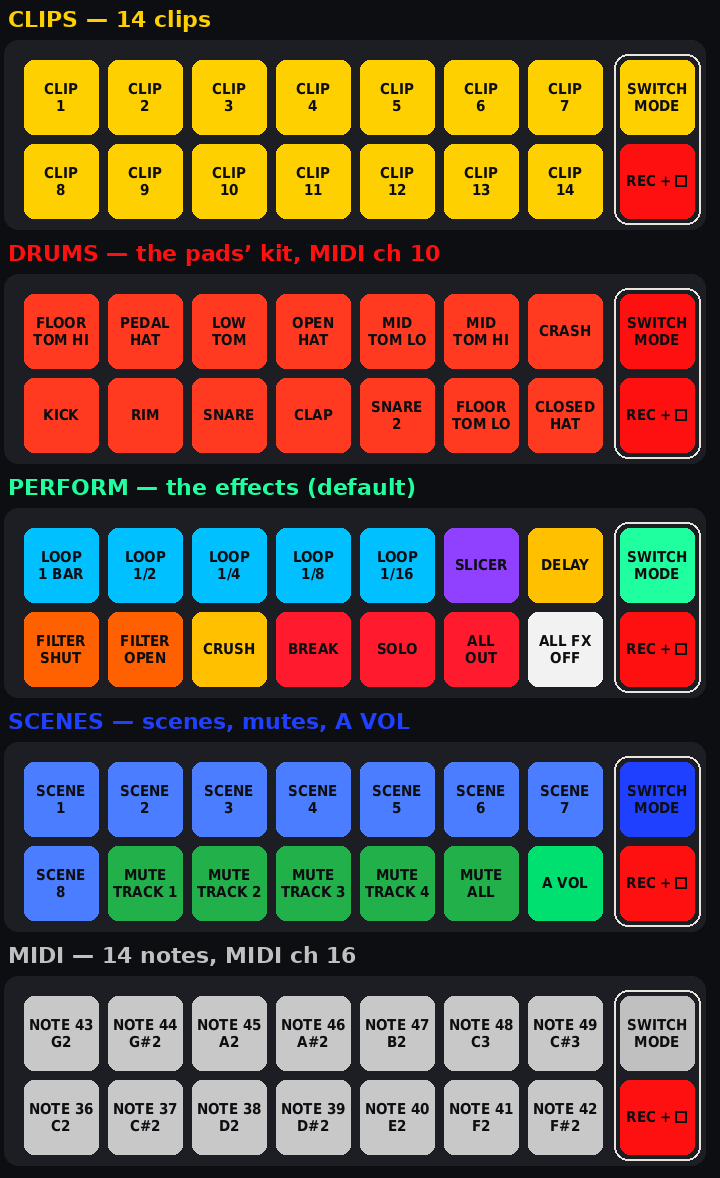
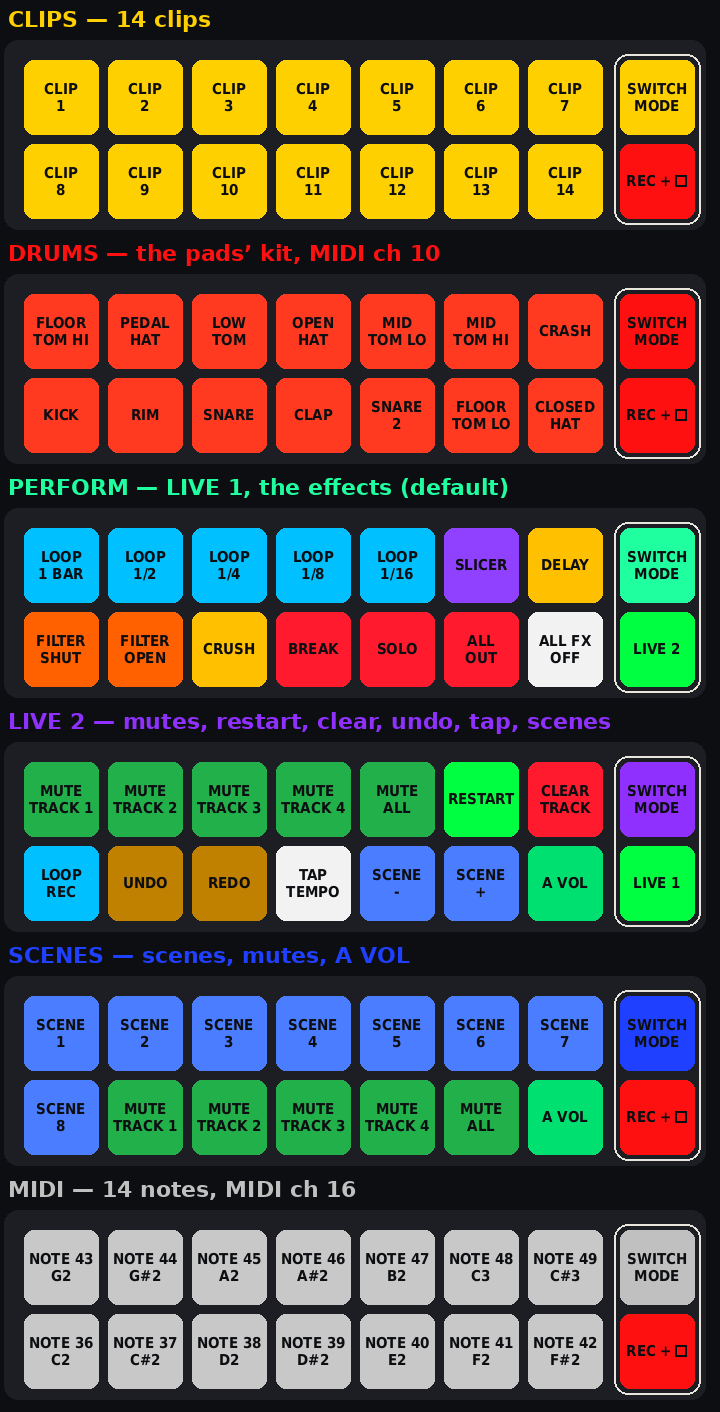
Pads: LIVE 2 mode, REC switches LIVE 1 / LIVE 2 (CORE a4ee07b)
Claude-Session: https://claude.ai/code/session_01N9f4HJn3ZZ4mEGDi7YNfQW

diff --git a/targets/smk37/smk37_app.c b/targets/smk37/smk37_app.c
@@ -379,7 +379,9 @@ static const int8_t ENCODER_MAP[SMK_ENCODERS] = { EN_SELECT, EN_PRESET, EN_K1, E
 
 /* The pads: the two on the right are set-up pads, MODE (top right) and REC (bottom right); the 14 others play the
  * mode MODE (or PAD/STEP) goes round: CLIPS, DRUMS, PERFORM, SCENES, MIDI. */
-enum { PADS_CLIPS, PADS_DRUMS, PADS_PERFORM, PADS_SCENES, PADS_MIDI, PAD_MODES };
+enum { PADS_CLIPS, PADS_DRUMS, PADS_PERFORM, PADS_LIVE2, PADS_SCENES, PADS_MIDI, PAD_MODES };   /* PERFORM is
+                                                 * LIVE 1: LIVE 1 and LIVE 2 are the pads played all the time */
+#define LIVE_MODE(m) ((m) == PADS_PERFORM || (m) == PADS_LIVE2)   /* REC is their switch, green */
 #define PAD_MODE 7u                             /* the top right pad */
 #define PAD_REC 15u                             /* the bottom right pad */
 #define PLAY_PADS 14u
@@ -645,7 +647,7 @@ static void setup_pad(uint32_t pad, int down)
             ui.redraw = 1;
             return;
         }
-        static const char *const NAME[PAD_MODES] = { "CLIPS", "DRUMS", "PERFORM", "SCENES", "MIDI CH 16" };
+        static const char *const NAME[PAD_MODES] = { "CLIPS", "DRUMS", "LIVE 1", "LIVE 2", "SCENES", "MIDI CH 16" };
         smk.pad_mode = (uint8_t)((smk.pad_mode + 1u) % PAD_MODES);
         app_say("PADS", NAME[smk.pad_mode]);
         return;
@@ -672,6 +674,13 @@ static void setup_pad(uint32_t pad, int down)
                 return;
             }
         }
+        if (LIVE_MODE(smk.pad_mode)) {          /* LIVE 1 / LIVE 2: REC is their switch (nothing to record there) */
+            static const char *const LIVE_NAME[2] = { "LIVE 1", "LIVE 2" };
+            smk.pad_mode = smk.pad_mode == PADS_PERFORM ? PADS_LIVE2 : PADS_PERFORM;
+            app_say("PADS", LIVE_NAME[smk.pad_mode == PADS_LIVE2]);
+            smk.rec_target = -2;
+            return;
+        }
         smk.rec_target = -1;
         if (smk.pad_mode == PADS_DRUMS) {       /* the kits on the first five pads, the one playing bright */
             app_say("PAD KIT", ols_sound_name(OLS_SOUND_FIRST_DRUM + set.pad_kit));
@@ -689,6 +698,102 @@ static void setup_pad(uint32_t pad, int down)
         return;
     }
     rec_taken(i);
+}
+
+/* LIVE 2: what is needed at once while playing, one pad each. Top: MUTE 1-4 (the tracks' own mutes, as SELECT + key),
+ * MUTE ALL, RESTART, CLEAR TRACK. Bottom: LOOP REC (as EDIT tapped), UNDO, REDO, TAP tempo, the previous / next
+ * stored scene, A VOL. REC (bottom right) goes back to LIVE 1. */
+enum { L2_M1, L2_M2, L2_M3, L2_M4, L2_MUTE_ALL, L2_RESTART, L2_CLEAR, L2_CAPTURE, L2_UNDO, L2_REDO, L2_TAP,
+       L2_SCENE_PREV, L2_SCENE_NEXT, L2_AVOL };
+
+static int live2_scene(int dir)                 /* the next stored scene from the last one, -1 none */
+{
+    int from = mirror.scene_last >= 0 ? mirror.scene_last : (dir > 0 ? -1 : 0);
+    for (int n = 1; n <= 8; n++) {
+        int s = ((from + dir * n) % 8 + 8) % 8;
+        if (live.scene[s].valid)
+            return s;
+    }
+    return -1;
+}
+
+static void live2_pad(int i)
+{
+    switch (i) {
+    case L2_M1: case L2_M2: case L2_M3: case L2_M4:
+        track_key(i);
+        break;
+    case L2_MUTE_ALL:
+        mute_all_key();
+        break;
+    case L2_RESTART:
+        home_key(1);
+        break;
+    case L2_CLEAR:
+        track_key(5);                           /* the selected track (on A: every track); ENV undoes it */
+        break;
+    case L2_CAPTURE:                            /* as EDIT tapped: LOOP REC armed, again: taken */
+        if (ui.cap_armed) {
+            take_end();
+        } else {
+            ui.edit_used = 0;
+            edit_released();
+        }
+        break;
+    case L2_UNDO:
+        button_pressed(B_ENV, ui.buttons);
+        break;
+    case L2_REDO:
+        button_pressed(B_LFO, ui.buttons);
+        break;
+    case L2_TAP:
+        send_live(LIVE_TAP, 0, 0, 0.0f, 0);
+        app_say("TAP", "TEMPO");
+        break;
+    case L2_SCENE_PREV: case L2_SCENE_NEXT: {
+        int s = live2_scene(i == L2_SCENE_NEXT ? 1 : -1);
+        if (s < 0)
+            app_say("SCENES", "NONE STORED");
+        else
+            scene_key(s);
+        break;
+    }
+    default:
+        avol_key();
+        break;
+    }
+}
+
+static uint32_t live2_colour(int i, int held)
+{
+    if (i <= L2_M4)                             /* the mutes: as in SCENES */
+        return live.track[i].mute ? 0x400000 : (i == mirror.track && !ui.on_a ? 0x8060FF : 0x08A008);
+    switch (i) {
+    case L2_MUTE_ALL: {
+        int all_out = 1;
+        for (uint32_t k = 0; k < TRACKS; k++)
+            all_out &= live.track[k].mute != 0;
+        return all_out ? ((fm1_millis() / 125u) & 1u ? 0xFF0010 : 0x100000) : 0x200040;
+    }
+    case L2_RESTART:
+        return held ? 0x00FF40 : 0x00300C;
+    case L2_CLEAR:
+        return held ? 0xFF0000 : 0x300000;
+    case L2_CAPTURE:                            /* LOOP REC armed / taking: blinks fast */
+        return ui.cap_armed ? ((fm1_millis() / 125u) & 1u ? 0x00C0FF : 0x001018) : (held ? 0x00C0FF : 0x00141C);
+    case L2_UNDO:
+        return ols_live_can_undo_track(&live, mirror.track) ? 0xC08000 : 0x100800;
+    case L2_REDO:
+        return ols_live_can_redo_track(&live, mirror.track) ? 0xC08000 : 0x100800;
+    case L2_TAP: {                              /* the beat */
+        uint32_t t = live.clock.running ? live.clock.tick : live.clock.free_tick;
+        return held ? 0xFFFFFF : (t % OLS_PPQN < OLS_PPQN / 8u ? 0x808080 : 0x101010);
+    }
+    case L2_SCENE_PREV: case L2_SCENE_NEXT:
+        return live2_scene(1) < 0 ? 0x020210 : (held ? 0x60A0FF : 0x0828A0);
+    default:
+        return avol.on ? 0x00FF60 : 0x002810;   /* A VOL: lit green while it runs */
+    }
 }
 
 #define PADS_QUIET_MS 500u
@@ -780,6 +885,10 @@ static void pad_event(uint32_t pad, int velocity)
             else
                 v_keys_tracks |= 1u << k;
             slot_down(k, (uint32_t)velocity);
+            return;
+        }
+        if (smk.pad_mode == PADS_LIVE2) {       /* quick gestures, at once */
+            live2_pad(i);
             return;
         }
         if (smk.pad_mode == PADS_PERFORM) {     /* 14 of the perform effects (the pads never follow a held layer) */
@@ -1146,9 +1255,9 @@ static uint32_t clip_colour(const clip_t *c)
 }
 
 /* the pads' modes' colours (the MODE pad shows the one it is in) */
-static const uint32_t MODE_COLOUR[PAD_MODES] = { 0xFFD000, 0xFF1010, 0x20FFA0, 0x2040FF, 0xC0C0C0 };   /* CLIPS
-                                                 * yellow, DRUMS red, PERFORM mint (the live colour), SCENES blue,
-                                                 * MIDI white */
+static const uint32_t MODE_COLOUR[PAD_MODES] = { 0xFFD000, 0xFF1010, 0x20FFA0, 0x9030FF, 0x2040FF, 0xC0C0C0 };
+                                                /* CLIPS yellow, DRUMS red, LIVE 1 (PERFORM) mint (the live colour),
+                                                 * LIVE 2 violet, SCENES blue, MIDI white */
 
 #define MODE_MAP_MS 400u                        /* MODE held this long, alone: the pads' map shows */
 
@@ -1170,7 +1279,13 @@ static const struct { char name[4]; uint8_t type; } PAD_MAP[PAD_MODES][SMK_PADS]
         { "L1", 0 }, { "L2", 0 }, { "L4", 0 }, { "L8", 0 },
         { "L16", 0 }, { "SLC", 12 }, { "DLY", 13 }, { "SW", 10 },
         { "FL-", 1 }, { "FL+", 1 }, { "CRU", 13 }, { "BRK", 2 },
-        { "SOL", 2 }, { "OUT", 2 }, { "OFF", 3 }, { "REC", 11 },
+        { "SOL", 2 }, { "OUT", 2 }, { "OFF", 3 }, { "LV2", 14 },
+    },
+    {
+        { "M1", 8 }, { "M2", 8 }, { "M3", 8 }, { "M4", 8 },
+        { "MA", 8 }, { "RST", 14 }, { "CLR", 2 }, { "SW", 10 },
+        { "CAP", 0 }, { "UND", 15 }, { "RDO", 15 }, { "TAP", 3 },
+        { "SC-", 7 }, { "SC+", 7 }, { "AV", 9 }, { "LV1", 14 },
     },
     {
         { "SC1", 7 }, { "SC2", 7 }, { "SC3", 7 }, { "SC4", 7 },
@@ -1193,12 +1308,13 @@ static int smk_pad_map(void)
 {
     if (!((smk.pad_down >> PAD_MODE) & 1u) || smk.mode_used || fm1_millis() - smk.mode_down_at < MODE_MAP_MS)
         return 0;
-    static const uint32_t TYPE_RGB[14] = { 0x00C0FF, 0xFF6000, 0xFF1A2E, 0xF2F2F2, 0xFFD000, 0xFF3A20, 0xC8C8C8,
-                                           0x4A7DFF, 0x22B04A, 0x00E070, 0, 0xFF1010, 0x9040FF, 0xFFC000 };
+    static const uint32_t TYPE_RGB[16] = { 0x00C0FF, 0xFF6000, 0xFF1A2E, 0xF2F2F2, 0xFFD000, 0xFF3A20, 0xC8C8C8,
+                                           0x4A7DFF, 0x22B04A, 0x00E070, 0, 0xFF1010, 0x9040FF, 0xFFC000, 0x00FF40,
+                                           0xC08000 };
                                                 /* loop, filter, mute, off, clip, drum, MIDI, scene, track, A VOL,
-                                                 * (MODE), REC, slicer, sound effect */
+                                                 * (MODE), REC, slicer, sound effect, LIVE switch / restart, undo */
     if (!smk.mode_map) {
-        static const char *const NAME[PAD_MODES] = { "CLIPS", "DRUMS", "PERFORM", "SCENES", "MIDI CH 16" };
+        static const char *const NAME[PAD_MODES] = { "CLIPS", "DRUMS", "LIVE 1", "LIVE 2", "SCENES", "MIDI CH 16" };
         app_say("PADS", NAME[smk.pad_mode]);
         ui.msg_until = plat_ms() + 60000u;      /* (while MODE is held) */
     }
@@ -1210,7 +1326,7 @@ static int smk_pad_map(void)
         int32_t col = (int32_t)(p % 8u), row = (int32_t)(p / 8u);
         int32_t x = x0 + col * (pw + gap) + (col == 7 ? side : 0), y = y0 + row * (ph + gap);
         uint8_t t = PAD_MAP[smk.pad_mode][p].type;
-        uint32_t c = t == 10u ? MODE_COLOUR[smk.pad_mode] : (t < 14u ? TYPE_RGB[t] : 0x24252Cu);
+        uint32_t c = t == 10u ? MODE_COLOUR[smk.pad_mode] : (t < 16u ? TYPE_RGB[t] : 0x24252Cu);
         cv_rect(x, y, pw, ph, RGB((c >> 16) & 255u, (c >> 8) & 255u, c & 255u));
         const char *n = PAD_MAP[smk.pad_mode][p].name;
         cv_text(x + (pw - text_w(&FONT_XS, n)) / 2, y + (ph - (int32_t)FONT_XS.h) / 2, &FONT_XS, n, C_BLACK);
@@ -1269,6 +1385,8 @@ static uint32_t pad_colour(uint32_t pad)
         return dim(MODE_COLOUR[smk.pad_mode], held ? 256u : 110u);
     }
     if (pad == PAD_REC) {                         /* REC: a take armed or running blinks it, 4 times a second */
+        if (LIVE_MODE(smk.pad_mode) && crec.slot < 0)
+            return held ? 0x00FF40 : 0x00601A;    /* LIVE 1 / 2: the switch, green */
         if (crec.slot >= 0)
             return (fm1_millis() / 250u) & 1u ? 0xFF0000 : 0x180000;
         if (held)
@@ -1290,6 +1408,8 @@ static uint32_t pad_colour(uint32_t pad)
     }
     if (smk.pad_mode == PADS_PERFORM)
         return perform_colour(PERFORM_PAD[i]);
+    if (smk.pad_mode == PADS_LIVE2)
+        return live2_colour(i, held);
     if (smk.pad_mode == PADS_SCENES) {            /* 1-8 the scenes (REC or SHIFT: store), 9-12 the mutes, 13 all, 14 A VOL */
         if (i < (int)SCENE_PADS) {
             if (shift_held() || ((smk.pad_down >> PAD_REC) & 1u))    /* saving: pink */
@@ -1325,8 +1445,8 @@ static void update_lights(void)
         want |= 1u << SMK_B_FADER_BANK;         /* lit: the macros; blinking: the USER bank */
     if (map_is_open())
         want |= 1u << SMK_B_BACK;
-    if (smk.pad_mode != PADS_PERFORM)
-        want |= 1u << SMK_B_PAD_STEP;           /* off: PERFORM, lit: another mode (the MODE pad's colour says which) */
+    if (!LIVE_MODE(smk.pad_mode))
+        want |= 1u << SMK_B_PAD_STEP;           /* off: LIVE 1 / 2, lit: another mode (the MODE pad's colour says which) */
     if (shift_held())
         want |= 1u << SMK_B_SHIFT;
     if (play_red)

diff --git a/targets/smk37/tests/host_test.c b/targets/smk37/tests/host_test.c
@@ -334,6 +334,22 @@ int main(void)
     run_ms(50);
     CHECK(smk.pad_mode == PADS_PERFORM && smk.mode_map == 0, "...and letting it go keeps the mode");
 
+    /* PAD/STEP: LIVE 2 (violet). The top left pads are the tracks' mutes, the 7th CLEARs the track; REC (bottom
+     * right, green) switches LIVE 1 <-> LIVE 2 */
+    tap(SMK_BUTTON, SMK_B_PAD_STEP);
+    CHECK(smk.pad_mode == PADS_LIVE2 && pad_rgb[PAD_MODE] == dim(0x9030FF, 110u), "PAD/STEP: LIVE 2, violet");
+    CHECK(pad_rgb[PAD_REC] == 0x00601A, "REC is the LIVE switch, green");
+    tap(SMK_PAD, 0);
+    run_ms(50);
+    CHECK(live.track[0].mute, "LIVE 2: pad 1 mutes track 1 (the same mute as SELECT + key)");
+    tap(SMK_PAD, 0);
+    run_ms(50);
+    CHECK(!live.track[0].mute, "...and back");
+    tap(SMK_PAD, PAD_REC);
+    CHECK(smk.pad_mode == PADS_PERFORM, "REC: back to LIVE 1");
+    tap(SMK_PAD, PAD_REC);
+    CHECK(smk.pad_mode == PADS_LIVE2, "REC again: LIVE 2");
+
     /* PAD/STEP: SCENES. Pads 1-8 recall, SHIFT + them store (or REC + them, valid on release), 9-12 mute the tracks */
     tap(SMK_BUTTON, SMK_B_PAD_STEP);
     CHECK(smk.pad_mode == PADS_SCENES, "PAD/STEP: scenes");

diff --git a/docs/_FR/02-le-smk37.md b/docs/_FR/02-le-smk37.md
@@ -58,10 +58,11 @@ Si plus rien ne répond, l'atelier web de M-VAVE sait réinstaller un firmware d
 |---|---|
 | **37 touches** (Do3 à Do6) | jouent la piste sélectionnée, avec la vélocité ; OCT− / OCT+ décalent la ligne sélectionnée d'une octave (T1..T4 et A chacune la leur ; un son USER ramène son octave) |
 | touches blanches + un bouton de couche tenu | les 16 « touches de couche » du FM-1 (GLO scènes, ARP Creative, SELECT pistes, SEQ effets, SAVE sons) : 1re touche blanche = 1. Sur une piste, ARP / SEQ / GLO + touche blanche affiche le geste : relâcher ARP / SEQ / GLO d'abord l'applique (menthe), la touche d'abord l'annule |
-| **16 pads** : 2 pads de réglage à droite, 14 pads de jeu (pendant le logo et l'aide : une lumière fait le tour dans le sens horaire, un tour en 1,6 s, suivie d'une traîne qui s'éteint sur les trois pads derrière, sa couleur glissant sur la roue : rouge, orange, jaune, menthe, bleu, violet ; elle part du pad en haut à gauche ; un pad appuyé à ce moment arrête le logo et l'aide, sans rien faire d'autre ; puis tous les pads restent éteints une demi-seconde avant leur mode) | en haut à droite **MODE** : tenu seul un instant, la **carte des pads** s'affiche à l'écran (comme le clavier pour un bouton de couche) ; une tape fait le tour **CLIPS** (jaune) → **DRUMS** (rouge) → **PERFORM** (menthe, la couleur du live) → **SCÈNES** (bleu) → **MIDI** (blanc) ; le pad prend la couleur du mode. En bas à droite **REC** : REC + un pad agit **tout de suite** (un clip armé, une scène sauvée, un kit choisi). **PAD/STEP** fait aussi le tour des modes (voyant éteint : PERFORM) |
+| **16 pads** : 2 pads de réglage à droite, 14 pads de jeu (pendant le logo et l'aide : une lumière fait le tour dans le sens horaire, un tour en 1,6 s, suivie d'une traîne qui s'éteint sur les trois pads derrière, sa couleur glissant sur la roue : rouge, orange, jaune, menthe, bleu, violet ; elle part du pad en haut à gauche ; un pad appuyé à ce moment arrête le logo et l'aide, sans rien faire d'autre ; puis tous les pads restent éteints une demi-seconde avant leur mode) | en haut à droite **MODE** : tenu seul un instant, la **carte des pads** s'affiche à l'écran (comme le clavier pour un bouton de couche) ; une tape fait le tour **CLIPS** (jaune) → **DRUMS** (rouge) → **LIVE 1** (PERFORM, menthe, la couleur du live) → **LIVE 2** (violet) → **SCÈNES** (bleu) → **MIDI** (blanc) ; le pad prend la couleur du mode. En bas à droite **REC** : REC + un pad agit **tout de suite** (un clip armé, une scène sauvée, un kit choisi) ; en LIVE 1 et LIVE 2 c'est leur **bascule** à la place (verte) : LIVE 1 ↔ LIVE 2. **PAD/STEP** fait aussi le tour des modes (voyant éteint : PERFORM) |
 | pads en **CLIPS** | un clip = une phrase jouée sur la ligne choisie (une piste ou A), avec son son. **REC + pad** l'arme tout de suite (le pad clignote rouge toutes les 1/4 s, la ligne passe vert sombre à l'écran) ; la **première note** lance la prise (vert vif qui remplit la ligne, toute la largeur = 4 mesures, le maximum) ; **son pad ou REC** la termine (un autre pad, MODE ou un bouton aussi), son propre pad la termine et la joue. Longueur arrondie au temps, au plus **4 mesures / 48 notes**, 14 clips. **Une tape = SINGLE** : une fois, tout de suite, depuis sa première note. **Le pad encore l'arrête** (une fois ou en boucle). **Le pad tenu, puis REC** = **LOOP** : verrouillé, en boucle, en mesure (clignote vert / violet, une demi-seconde chacun). **REC + un pad plein** : REPLACE (l'ancien reste jusqu'à la première note). **SHIFT + pad** : effacé. Couleurs : éteint = vide, rouge = batterie, vert = acid, rose = son USER, bleu = les autres ; vif = en lecture. Les clips jouent le son actuel de la ligne, ne s'enregistrent pas dans la boucle et ne sont pas sauvés (hors tension : perdus) |
 | pads en **DRUMS** | le **kit de batterie propre aux pads** (pas une piste) : 14 sons, Do2 (grosse caisse) en bas à gauche, comme les boîtes à rythmes ; sortie sur le **canal MIDI 10**. **REC tenu** : les cinq kits sur les cinq premiers pads (tous, même les cachés ; vif = celui des pads) ; REC + pad = ce kit, tout de suite, gardé (SAVE). La pression = un **roulement** calé sur la grille, plus rapide en appuyant plus fort : 1/8, puis 1/16, puis 1/32, un cran toutes les 1/4 s au plus (la pression des pads monte vite : il passait direct à 1/32) ; en relâchant, il ralentit ou s'arrête tout de suite. Pas enregistré dans les boucles |
-| pads en **PERFORM** (par défaut) | 14 effets de jeu groupés par couleur : en haut le temps, boucles 1 mesure à 1/16 (cyan ; une boucle en cours clignote à sa propre longueur, OCT− / OCT+ la changent), SLICER (violet ; la piste choisie, OCT− / OCT+ sa longueur), DELAY (jaune) ; en bas FILTRE fermé / ouvert (orange), CRUSH (jaune), BREAK, SOLO, TOUT COUPÉ (rouge), TOUT ARRÊTER (blanc). DRIVE et DRUMS ONLY restent sur les touches ; LOOP 1/32 par OCT+ depuis 1/16. Tenir = tant que tenu ; tape courte = verrouillé. **Pression** sur un filtre / delay / crush tenu : effleurer = 40 %, appuyer fort = 100 % |
+| pads en **LIVE 2** (violet) | ce qu'il faut lancer vite en jouant, un pad chacun. En haut : **MUTE 1–4** (les mutes des pistes, comme SELECT + touche : même état), **MUTE ALL**, **RESTART** (toutes les pistes au début), **CLEAR TRACK** (la piste choisie ; ENV l'annule). En bas : **LOOP REC** (comme EDIT tapé ; clignote quand il attend), **UNDO**, **REDO** (ambre quand il y a quelque chose), **TAP** tempo (clignote sur le temps), **SCÈNE −** / **SCÈNE +** (la scène enregistrée précédente / suivante, à la mesure suivante), **A VOL**. Le pad en bas à droite (vert) revient à LIVE 1 |
+| pads en **LIVE 1** (PERFORM, par défaut) | 14 effets de jeu groupés par couleur : en haut le temps, boucles 1 mesure à 1/16 (cyan ; une boucle en cours clignote à sa propre longueur, OCT− / OCT+ la changent), SLICER (violet ; la piste choisie, OCT− / OCT+ sa longueur), DELAY (jaune) ; en bas FILTRE fermé / ouvert (orange), CRUSH (jaune), BREAK, SOLO, TOUT COUPÉ (rouge), TOUT ARRÊTER (blanc). DRIVE et DRUMS ONLY restent sur les touches ; LOOP 1/32 par OCT+ depuis 1/16. Tenir = tant que tenu ; tape courte = verrouillé. **Pression** sur un filtre / delay / crush tenu : effleurer = 40 %, appuyer fort = 100 % |
 | pads en **SCÈNES** | rangée du haut + le pad en bas à gauche : scènes 1–8 (à la mesure suivante en lecture ; vif : la dernière, pâle : enregistrée, sombre : vide) ; **REC + pad** (ou SHIFT + pad) la SAUVE (rose) ; puis mute / unmute des pistes 1–4, les quatre (rouge qui clignote vite quand tout est coupé), **A VOL** (vert qui respire pendant qu'il tourne) |
 | pads en **MIDI** | 14 notes depuis Do2 sur le **canal MIDI 16** seulement (USB et prise MIDI OUT), aucun son interne : pour une boîte à rythmes ou un sampler |
 | pads + un bouton de couche tenu | les 16 emplacements de la couche, quel que soit le mode : GLO + pads 1–8 rappellent les scènes, 9–16 les mémorisent… |

diff --git a/docs/_EN/02-the-smk37.md b/docs/_EN/02-the-smk37.md
@@ -56,10 +56,11 @@ answers any more, M-VAVE's web workbench can reinstall a firmware from update mo
 |---|---|
 | **37 keys** (C3 to C6) | play the selected track, with velocity; OCT− / OCT+ shift the selected line an octave (T1..T4 and A each their own; a USER sound brings back its octave) |
 | white keys + a layer button held | the FM-1's 16 "layer keys" (GLO scenes, ARP Creative, SELECT tracks, SEQ effects, SAVE sounds): 1st white key = 1. On a track, ARP / SEQ / GLO + white key names the gesture: let ARP / SEQ / GLO go first to apply it (mint), the key first to give it up |
-| **16 pads**: 2 set-up pads on the right, 14 playing pads (during the logo and the help: a light goes round clockwise, one lap in 1.6 s, with a trail fading on the three pads behind it, its colour flowing round the wheel: red, orange, yellow, mint, blue, violet; it starts on the top left pad; a pad pressed then ends the logo and the help and does nothing else; then every pad stays off half a second before its mode) | top right **MODE**: held alone a moment, the **pads' map** shows on the screen (as the keyboard does for a layer button); a tap goes round **CLIPS** (yellow) → **DRUMS** (red) → **PERFORM** (mint, the live colour) → **SCENES** (blue) → **MIDI** (white); the pad shows the mode's colour. Bottom right **REC**: REC + a pad acts **at once** (a clip armed, a scene stored, a kit chosen). **PAD/STEP** goes round the modes too (LED off: PERFORM) |
+| **16 pads**: 2 set-up pads on the right, 14 playing pads (during the logo and the help: a light goes round clockwise, one lap in 1.6 s, with a trail fading on the three pads behind it, its colour flowing round the wheel: red, orange, yellow, mint, blue, violet; it starts on the top left pad; a pad pressed then ends the logo and the help and does nothing else; then every pad stays off half a second before its mode) | top right **MODE**: held alone a moment, the **pads' map** shows on the screen (as the keyboard does for a layer button); a tap goes round **CLIPS** (yellow) → **DRUMS** (red) → **LIVE 1** (PERFORM, mint, the live colour) → **LIVE 2** (violet) → **SCENES** (blue) → **MIDI** (white); the pad shows the mode's colour. Bottom right **REC**: REC + a pad acts **at once** (a clip armed, a scene stored, a kit chosen); in LIVE 1 and LIVE 2 it is their **switch** instead (green): LIVE 1 ↔ LIVE 2. **PAD/STEP** goes round the modes too (LED off: PERFORM) |
 | pads in **CLIPS** | a clip = a phrase played on the selected line (a track or A), with its sound. **REC + pad** arms it at once (pad blinking red every 1/4 s, the line goes dark green on screen); the **first note** starts the take (bright green filling the line, the full width = 4 bars, the longest); **its pad or REC** ends it (any other pad, MODE or a button too), its own pad ends it and plays it. Length rounded to the beat, at most **4 bars / 48 notes**, 14 clips. **A tap = SINGLE**: once, now, from its first note. **The pad again stops it** (once or looping). **The pad held, then REC** = **LOOP**: latched, looping, in time (blinking green / violet, half a second each). **REC + a full pad**: REPLACE (the old one stays until the first note). **SHIFT + pad**: deleted. Colours: off = empty, red = drums, green = acid, pink = USER sound, blue = the others; bright = playing. Clips play on the line's sound as it is now, are not recorded in the loop, and are not saved (power off: gone) |
 | pads in **DRUMS** | the pads' **own drum kit** (not a track): 14 sounds, C2 (kick) on the bottom left, as drum machines; out on **MIDI channel 10**. **REC held**: the five kits on the first five pads (all, hidden ones too; bright = the pads' one); REC + pad = that kit, at once, kept (SAVE). Pressure = a **roll** on the beat grid, faster the harder: 1/8, then 1/16, then 1/32, a step every 1/4 s at most (the pads' pressure rises fast: it went straight to 1/32); eased off, it slows or stops at once. Not recorded in the loops |
-| pads in **PERFORM** (the default) | 14 perform effects grouped by colour: top row the time ones, loops 1 bar to 1/16 (cyan; a running loop blinks at its own length, OCT− / OCT+ change it), SLICER (violet; the selected track, OCT− / OCT+ its length), DELAY (yellow); bottom row FILTER shut / open (orange), CRUSH (yellow), BREAK, SOLO, ALL OUT (red), ALL OFF (white). DRIVE and DRUMS ONLY stay on the keys; LOOP 1/32 by OCT+ from 1/16. Hold = while held; a short tap = latched. **Pressure** on a held filter / delay / crush: a light touch = 40 %, a full press = 100 % |
+| pads in **LIVE 2** (violet) | what must start fast while playing, one pad each. Top: **MUTE 1–4** (the tracks' own mutes, as SELECT + key: same state), **MUTE ALL**, **RESTART** (every track from its start), **CLEAR TRACK** (the selected track; ENV undoes it). Bottom: **LOOP REC** (as EDIT tapped; blinks while armed), **UNDO**, **REDO** (amber when there is something), **TAP** tempo (blinks on the beat), **SCENE −** / **SCENE +** (the previous / next stored scene, on the next bar), **A VOL**. The bottom right pad (green) goes back to LIVE 1 |
+| pads in **LIVE 1** (PERFORM, the default) | 14 perform effects grouped by colour: top row the time ones, loops 1 bar to 1/16 (cyan; a running loop blinks at its own length, OCT− / OCT+ change it), SLICER (violet; the selected track, OCT− / OCT+ its length), DELAY (yellow); bottom row FILTER shut / open (orange), CRUSH (yellow), BREAK, SOLO, ALL OUT (red), ALL OFF (white). DRIVE and DRUMS ONLY stay on the keys; LOOP 1/32 by OCT+ from 1/16. Hold = while held; a short tap = latched. **Pressure** on a held filter / delay / crush: a light touch = 40 %, a full press = 100 % |
 | pads in **SCENES** | top row + the bottom left: scenes 1–8 (on the next bar when playing; bright: the last one, dim: stored, dark: empty); **REC + pad** (or SHIFT + pad) SAVES (pink); then mute / unmute tracks 1–4, all four (fast red blink while all are out), **A VOL** (green swell while it runs) |
 | pads in **MIDI** | 14 notes from C2 on **MIDI channel 16** only (USB and the MIDI OUT jack), no sound inside: for a drum machine or a sampler |
 | pads + a layer button held | that layer's 16 slots, in any mode: GLO + pads 1–8 recall the scenes, 9–16 store them… |

diff --git a/docs/_FR/22-reperes-ecran-et-menus.md b/docs/_FR/22-reperes-ecran-et-menus.md
@@ -255,11 +255,19 @@ Le kit propre aux pads, sortie canal MIDI 10. REC tenu : les 5 kits sur les 5 pr
 
 ### PERFORM
 
-Mode par défaut, en menthe (la couleur du live). Les effets de SEQ sur les pads, par couleur : en haut le temps (boucles cyan qui clignotent à leur longueur, slicer violet, delay jaune), en bas les filtres (orange), le crush (jaune), les coupures (rouge) et OFF. DRIVE et DRUMS ONLY restent sur les touches. Pression sur un filtre, delay ou crush tenu : 40 à 100 %.
+LIVE 1 : mode par défaut, en menthe (la couleur du live). Les effets de SEQ sur les pads, par couleur : en haut le temps (boucles cyan qui clignotent à leur longueur, slicer violet, delay jaune), en bas les filtres (orange), le crush (jaune), les coupures (rouge) et OFF. DRIVE et DRUMS ONLY restent sur les touches. Pression sur un filtre, delay ou crush tenu : 40 à 100 %. Le pad en bas à droite (vert) passe à LIVE 2.
 
 ![PERFORM](../img/pads-perform.png)
 
 **L1** Boucle 1 mesure, **L2** Boucle 1/2, **L4** Boucle 1/4, **L8** Boucle 1/8, **L16** Boucle 1/16, **SLC** Slicer, **DLY** Delay, **FL-** Filtre fermé, **FL+** Filtre ouvert, **CRU** Crush, **BRK** Break, **SOL** Solo, **OUT** All out, **OFF** Tous les effets arrêtés.
+
+### LIVE 2
+
+En violet, juste après LIVE 1 : ce qu'il faut lancer vite en jouant. En haut les mutes des pistes 1 à 4 (les mêmes que SELECT + touche), MUTE ALL, RESTART, CLEAR TRACK ; en bas LOOP REC, UNDO, REDO, TAP tempo, scène précédente / suivante, A VOL. Le pad en bas à droite (vert) revient à LIVE 1.
+
+![LIVE 2](../img/pads-live2.png)
+
+**M1** Mute piste 1, **M2** Mute piste 2, **M3** Mute piste 3, **M4** Mute piste 4, **MA** Mute all, **RST** Restart : toutes les pistes au début, **CLR** Clear track : efface la piste choisie, **CAP** Loop rec (comme EDIT tapé), **UND** Undo, **RDO** Redo, **TAP** Tap tempo, **SC-** Scène enregistrée précédente, **SC+** Scène enregistrée suivante, **AV** A VOL.
 
 ### SCÈNES
 

diff --git a/docs/_EN/22-screen-keyboard-and-menus.md b/docs/_EN/22-screen-keyboard-and-menus.md
@@ -255,11 +255,19 @@ The pads' own drum kit, out on MIDI channel 10. REC held: the 5 kits on the firs
 
 ### PERFORM
 
-The default, in mint (the live colour). SEQ's effects on the pads, by colour: on top the time ones (cyan loops blinking at their length, violet slicer, yellow delay), below the filters (orange), crush (yellow), the cuts (red) and OFF. DRIVE and DRUMS ONLY stay on the keys. Pressure on a held filter, delay or crush: 40 to 100 %.
+LIVE 1: the default, in mint (the live colour). SEQ's effects on the pads, by colour: on top the time ones (cyan loops blinking at their length, violet slicer, yellow delay), below the filters (orange), crush (yellow), the cuts (red) and OFF. DRIVE and DRUMS ONLY stay on the keys. Pressure on a held filter, delay or crush: 40 to 100 %. The bottom right pad (green) goes to LIVE 2.
 
 ![PERFORM](../img/pads-perform.png)
 
 **L1** Loop 1 bar, **L2** Loop 1/2, **L4** Loop 1/4, **L8** Loop 1/8, **L16** Loop 1/16, **SLC** Slicer, **DLY** Delay, **FL-** Filter shut, **FL+** Filter open, **CRU** Crush, **BRK** Break, **SOL** Solo, **OUT** All out, **OFF** Every effect off.
+
+### LIVE 2
+
+In violet, right after LIVE 1: what must start fast while playing. On top the mutes of tracks 1 to 4 (the same as SELECT + key), MUTE ALL, RESTART, CLEAR TRACK; below LOOP REC, UNDO, REDO, TAP tempo, previous / next stored scene, A VOL. The bottom right pad (green) goes back to LIVE 1.
+
+![LIVE 2](../img/pads-live2.png)
+
+**M1** Mute track 1, **M2** Mute track 2, **M3** Mute track 3, **M4** Mute track 4, **MA** Mute all, **RST** Restart: every track from its start, **CLR** Clear track: the selected track wiped, **CAP** Loop rec (as EDIT tapped), **UND** Undo, **RDO** Redo, **TAP** Tap tempo, **SC-** Previous stored scene, **SC+** Next stored scene, **AV** A VOL.
 
 ### SCENES
 

diff --git a/docs/_FR/21-commandes-fm1-smk37.md b/docs/_FR/21-commandes-fm1-smk37.md
@@ -90,7 +90,7 @@ Noms des touches à l'écran (3 caractères au plus, 5x7 pixels, écrits de haut
 
 | SMK-37 | Rôle | Sur le FM-1 |
 |---|---|---|
-| 16 pads : pads de réglage MODE + REC, 14 pads de jeu | CLIPS (SINGLE / LOOP), DRUMS (leur propre kit, MIDI canal 10, roulements à la pression), PERFORM (14 effets), SCÈNES (scènes, mutes, MUTE ALL, A VOL), MIDI (canal 16) | PERFORM, SCÈNES, mutes, MUTE ALL, A VOL : pareil sur les touches sous une couche. **Les CLIPS, les pads MIDI et les roulements n'ont pas d'équivalent FM-1** |
+| 16 pads : pads de réglage MODE + REC, 14 pads de jeu | CLIPS (SINGLE / LOOP), DRUMS (leur propre kit, MIDI canal 10, roulements à la pression), LIVE 1 = PERFORM (14 effets), LIVE 2 (mutes 1–4, MUTE ALL, RESTART, CLEAR TRACK, LOOP REC, UNDO, REDO, TAP, scène − / +, A VOL ; REC bascule LIVE 1 ↔ 2), SCÈNES (scènes, mutes, MUTE ALL, A VOL), MIDI (canal 16) | PERFORM, SCÈNES, mutes, MUTE ALL, A VOL, et les gestes de LIVE 2 : pareil sur les touches et boutons (SEL, HOME, EDIT, ENV / LFO, SEL + PLAY). **Les CLIPS, les pads MIDI, les roulements, la disposition un-pad-un-geste de LIVE 2 et scène − / + n'ont pas d'équivalent FM-1** |
 | 4 faders | volumes, macros, emplacements USER (FADER BANK) | les boutons rotatifs (pages LIVE / MACRO, MAP CONTROL) |
 | molette de pitch, de modulation | BEND ou PAN, MORPH (réglables) | — |
 | pédale de sustain | tient les notes | — |

diff --git a/docs/_EN/21-fm1-smk37-controls.md b/docs/_EN/21-fm1-smk37-controls.md
@@ -88,7 +88,7 @@ Key names on the screen (3 characters at most, 5x7 pixels, written top to bottom
 
 | SMK-37 | What | On the FM-1 |
 |---|---|---|
-| 16 pads: MODE + REC set-up pads, 14 playing pads | CLIPS (SINGLE / LOOP), DRUMS (their own kit, MIDI ch 10, rolls by pressure), PERFORM (14 effects), SCENES (scenes, mutes, MUTE ALL, A VOL), MIDI (channel 16) | PERFORM, SCENES, mutes, MUTE ALL, A VOL: the same on the keys under a layer. **CLIPS, the MIDI pads and the pad rolls have no FM-1 equivalent** |
+| 16 pads: MODE + REC set-up pads, 14 playing pads | CLIPS (SINGLE / LOOP), DRUMS (their own kit, MIDI ch 10, rolls by pressure), LIVE 1 = PERFORM (14 effects), LIVE 2 (mutes 1–4, MUTE ALL, RESTART, CLEAR TRACK, LOOP REC, UNDO, REDO, TAP, scene − / +, A VOL; REC switches LIVE 1 ↔ 2), SCENES (scenes, mutes, MUTE ALL, A VOL), MIDI (channel 16) | PERFORM, SCENES, mutes, MUTE ALL, A VOL, and LIVE 2's gestures: the same on the keys and buttons (SEL, HOME, EDIT, ENV / LFO, SEL + PLAY). **CLIPS, the MIDI pads, the pad rolls, LIVE 2's one-pad layout and scene − / + have no FM-1 equivalent** |
 | 4 faders | levels, macros, USER slots (FADER BANK) | the knobs (LIVE / MACRO pages, MAP CONTROL) |
 | pitch wheel, mod wheel | BEND or PAN, MORPH (mappable) | — |
 | sustain pedal | holds the notes | — |

diff --git a/CHANGELOG.md b/CHANGELOG.md
@@ -1,5 +1,12 @@
 # Changelog
 
+## 26 November 2026 — the pads' LIVE 2 mode
+
+- A pad mode LIVE 2 (violet), right after PERFORM (now called LIVE 1): MUTE 1–4 (the tracks' own mutes), MUTE ALL,
+  RESTART, CLEAR TRACK on top; LOOP REC, UNDO, REDO, TAP, the previous / next stored scene, A VOL below.
+- In LIVE 1 and LIVE 2, the bottom right pad switches between them (green, "LV2" / "LV1" on the pads' map); it is
+  REC (red) in the other modes.
+
 ## 20 November 2026 — the sounds levelled by measure; the slicer on a track; SEL and SEQ rearranged
 
 - Every synth sound levelled by measure (`tools/level_sounds.py`: a K-weighted level, each note by its loudest 100 ms,
